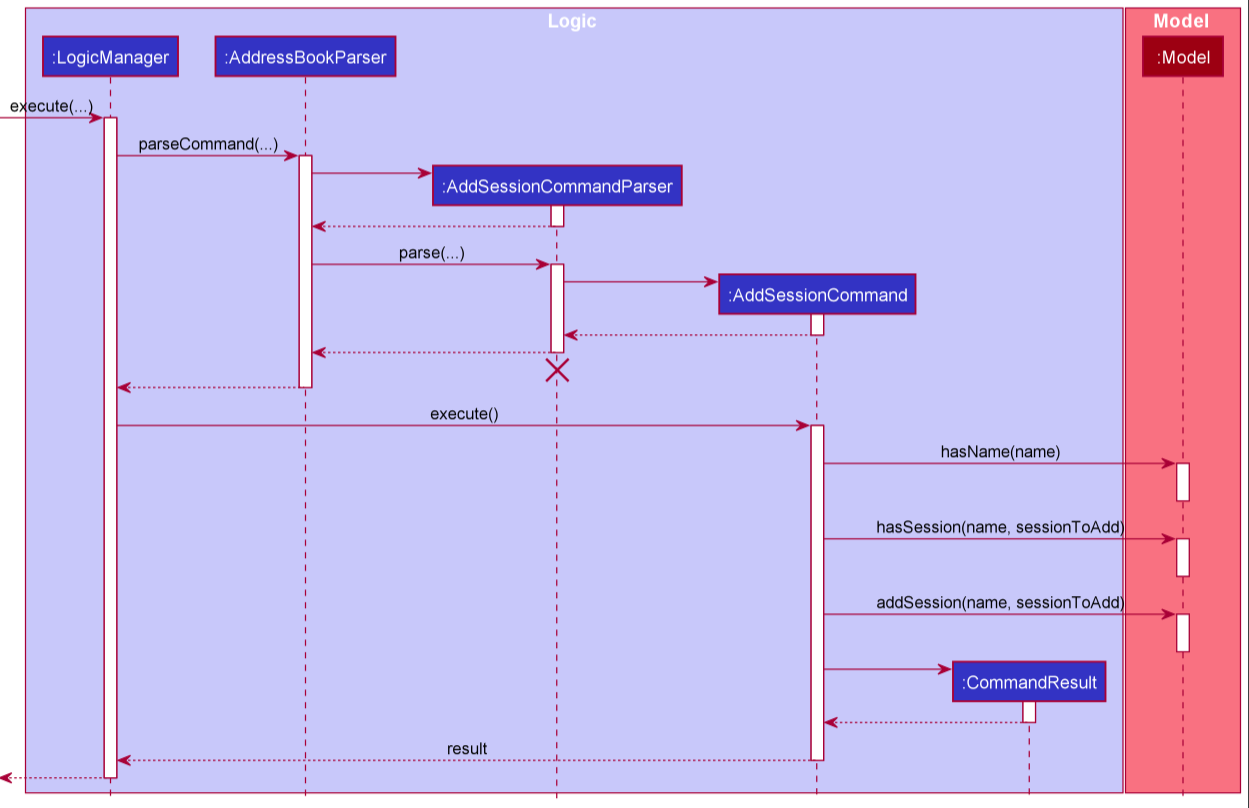
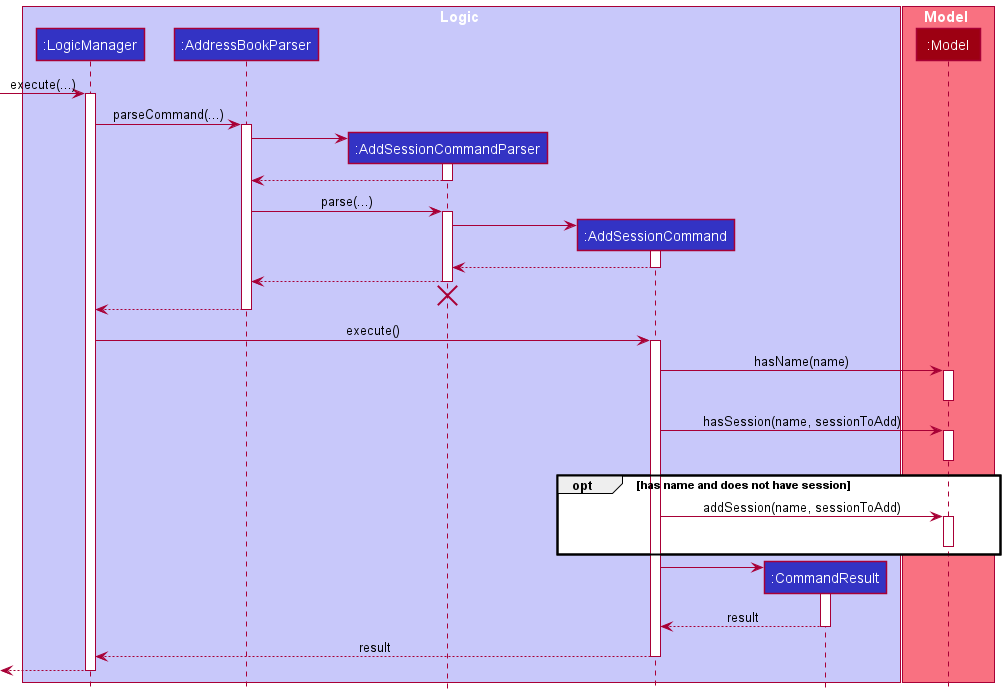
Update DG

diff --git a/docs/DeveloperGuide.md b/docs/DeveloperGuide.md
@@ -28,22 +28,22 @@ The ***Architecture Diagram*** given above explains the high-level design of the
 </div>
 
 **`Main`** has two classes called [`Main`](https://github.com/AY2021S2-CS2103T-T11-1/tp/blob/master/src/main/java/seedu/address/Main.java) and [`MainApp`](https://github.com/AY2021S2-CS2103T-T11-1/tp/blob/master/src/main/java/seedu/address/MainApp.java). It is responsible for,
-* At app launch: Initializes the components in the correct sequence, and connects them up with each other.
+* At application launch: Initializes the components in the correct sequence, and connects them up with each other.
 * At shut down: Shuts down the components and invokes cleanup methods where necessary.
 
 [**`Commons`**](#common-classes) represents a collection of classes used by multiple other components.
 
-The rest of the App consists of four components.
+The rest of the application consists of four components.
 
-* [**`UI`**](#ui-component): The UI of the App.
+* [**`UI`**](#ui-component): The UI of the application.
 * [**`Logic`**](#logic-component): The command executor.
-* [**`Model`**](#model-component): Holds the data of the App in memory.
-* [**`Storage`**](#storage-component): Reads data from, and writes data to, the hard disk.
+* [**`Model`**](#model-component): Holds the data of the application in memory.
+* [**`Storage`**](#storage-component): Reads and writes data to the hard disk.
 
 Each of the four components,
 
 * defines its *API* in an `interface` with the same name as the Component.
-* exposes its functionality using a concrete `{Component Name}Manager` class (which implements the corresponding API `interface` mentioned in the previous point.
+* exposes its functionality using a concrete `{Component Name}Manager` class (which implements the corresponding API `interface` mentioned in the previous point).
 
 For example, the `Logic` component (see the class diagram given below) defines its API in the `Logic.java` interface and exposes its functionality using the `LogicManager.java` class which implements the `Logic` interface.
 
@@ -94,7 +94,7 @@ Given below is the Sequence Diagram for interactions within the `Logic` componen
 </div>
 
 ### Model component
-
+ 
 ![Structure of the Model Component](images/ModelClassDiagram.png)
 
 **API** : [`Model.java`](https://github.com/AY2021S2-CS2103T-T11-1/tp/blob/master/src/main/java/seedu/address/model/Model.java)
@@ -104,7 +104,9 @@ The `Model`,
 * stores a `UserPref` object that represents the user’s preferences.
 * stores the address book data.
 * exposes an unmodifiable `ObservableList<Student>` that can be 'observed' e.g. the UI can be bound to this list so that the UI automatically updates when the data in the list change.
-* does not depend on any of the other three components.
+* consists of two main packages:
+    * the `Student` package contains classes that represents a student.
+    * the `Session` package contains classes that represents a tuition session for each particular student.
 
 
 ### Storage component
@@ -171,7 +173,7 @@ Given below is an example of how the add student mechanism runs:
 5. `AddStudentCommandParser` also creates a new `AddStudentCommand` with the previously created `Student` object as parameter.
 6. The command is returned to `LogicManager` which then executes the command.
 7. `ModelManager` adds the student to the `AddressBook`.
-8. `ModelManager` adds the student to `filteredStudents` list.
+8. `ModelManager` adds the student to the `filteredStudents` list.
 9. `Logic` saves the `AddressBook` data in the `Storage`.
 
 The following activity diagram summarizes what happens when a user executes the `add_student` command.
@@ -186,20 +188,18 @@ The delete student feature allows user to delete a student from the TutorBuddy A
 
 ##### Implementation
 The delete student feature is implemented similarly to the add student feature. However, it makes use of the
-`DeleteStudentCommandParser` and `DeleteStudentCommand` instead to delete the student from the student list. 
-The command word to use is `delete_student`. In step 4, it only validates the information and do not create a new 
-`student` object. In step 7 and 8, instead of adding the student to the `AddressBook` and
-`filteredStudents`, we remove the student instead.
+`DeleteStudentCommandParser` and `DeleteStudentCommand` instead to delete the student from the `AddressBook`. 
+The command word to use is `delete_student`. In step 4, TutorBuddy validates the information. In step 7 and 8,
+the student is removed from the `UniqueStudentList` list instead.
 
 #### Edit Student Feature
 The edit student feature allows user to edit a student profile from the TutorBuddy Application.
 
 ##### Implementation
 The edit student feature is implemented similarly to the add student feature. However, it makes use of the
-`EditStudentCommandParser` and `EditStudentCommand` instead to edit the student from the student list.
-The command word to use is `edit_student`. In step 4, it only validates the information, determine the fields to be edited, 
-but it does not create a new `student` object. In step 7 and 8, instead of adding the student to the `AddressBook` and
-`filteredStudents`, we update the student list instead.
+`EditStudentCommandParser` and `EditStudentCommand` instead to edit the student from the `AddressBook`.
+The command word to use is `edit_student`. In step 4, TutorBuddy validates the information, determine the fields to be edited.
+In step 7 and 8, the student is edited and updated to the `UnqiueStudentList` list instead.
 
 #### Find Student Feature
 The find student feature allows user to specific keywords in relation to the student's name in the application.
@@ -207,15 +207,14 @@ TutorBuddy will then filter the student list based on given keyword.
 
 ##### Implementation
 The find student feature is implemented similarly to the add student feature. However, it makes use of the
-`FindStudentCommandParser` and `FindStudentCommand` instead to edit the student from the student list.
-The command word to use is `find_student`. In step 4, it only validates the information, determine the keywords,
-but it does not create a new `student` object. In step 7 and 8, instead of adding the student to the `AddressBook` and
-`filteredStudents`, we only update the `filteredStudents` list instead based on the given keywords.
+`FindStudentCommandParser` and `FindStudentCommand` instead to update the `filteredStudent` list to only display students with the matching keyword.
+The command word to use is `find_student`. In step 4, TutorBuddy validates the information and determine the keywords. 
+In step 7 and 8, the `filteredStudents` list is updated based on the given keywords.
 
 #### List Students' Email Feature
 The list students' email feature allows the end-user to retrieve a list of students' emails, which are concatenated with
-a semi-colon `;`. This allows for easy copy and pasting to e-mail applications, such as Microsoft Outlook, for mass
-e-mail purposes (e.g. newsletter).
+a semi-colon `;`. This allows for quick copying and pasting to e-mail applications, such as Microsoft Outlook, for broadcasting
+message purposes (e.g. newsletter).
 
 ##### Implementation
 This feature is mainly supported by `EmailCommand`, with retrieval of students' emails through the Model interface
@@ -264,7 +263,22 @@ an `AddSessionCommand` with user input `add_session n/STUDENT_NAME d/DATE t/TIME
    `addSession(name, sessionToAdd)` which adds the session to the specific student.
 5. The result of the command execution is encapsulated as a `CommandResult` object which is passed back to the Ui.
 
-##### Design Considerations
+Aspect 2: Model for `Session` class
+* **Alternative 1(current choice)**: Maintaining a list of session in the `Student` class.
+    * Pros:
+        * Easy and straightforward implementation
+    * Cons:
+        * Could potentially hinder performance if there is too much data
+
+* **Alternative 2**: Maintain a two separate lists and have `UniqueStudentList` and `UniqueSessionList`.
+    * Pros:
+        * Smooth performance when there is a lot of data
+    * Cons:
+        * Harder to implement due to the need for a Universally Unique Identifier(UUID)
+    
+Alternative 1 was chosen because TutorBuddy is meant to be an application for independent tutors with few students.
+However, for future iterations, alternative 2 would be strongly considered.
+
 Aspect 1: Type of input for `AddSessionCommand`
 * **Alternative 1 (current choice)**: Using student name to identify the student to add the session to.
     * Pros:
@@ -278,9 +292,9 @@ Aspect 1: Type of input for `AddSessionCommand`
     * Cons:
         * User has to constantly refer to the application for student index id.
 
-Alternative 1 was chosen because the cons of implementing alternative 2 outweighs the benefits derived from it. Student index id may change when
+Alternative 1 was chosen because the cons of implementing alternative 2 outweighs the benefits derived from it. Student index may change when
 a user adds a new student into the AddressBook. If the AddressBook contains many students, it may take some time for the user to find the
-updated student index id. Student name on the other hand, stays constant throughout the application lifetime unless the user edits this information,
+updated student index. Student name on the other hand, stays constant throughout the application lifetime unless the user edits this information,
 which he also has knowledge of. Therefore, student name can be easily entered without reference to the AddressBook, saving much more time compared
 to alternative 2.
 
@@ -675,8 +689,7 @@ Priorities: High (must have) - `* * *`, Medium (nice to have) - `* *`, Low (unli
 **Extensions:**
 
 * 2a. User can toggle between the different weeks using the left and right button in the Calendar page.
-
-* 2b. User can toggle directly move to this week's schedule by clicking on the `Today` button.
+    * 2a1. User can view this week's schedule again by clicking on the `Today` button.
 
   Use case ends.
 
@@ -736,10 +749,13 @@ Priorities: High (must have) - `* * *`, Medium (nice to have) - `* *`, Low (unli
 
 ### Glossary
 
+* **Session**: Tuition session for a particular student
 * **Mainstream OS**: Windows, Linux, Unix, OS-X
 * **CLI**: Command Line Interface where users can interact with their OS system.
 * **MSS**: Main Success Scenario
 * **WPM**: Words Per Minute
+* **JavaFx**: Java framework to create user interfaces
+* **UI**: User interface
 
 --------------------------------------------------------------------------------------------------------------------
 
